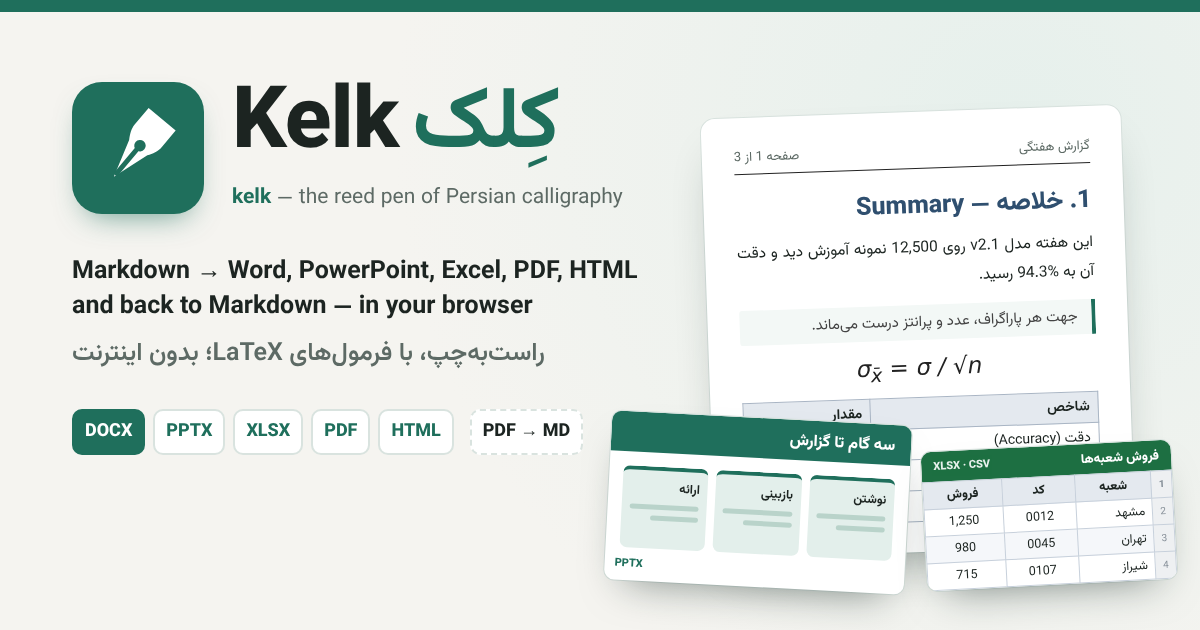
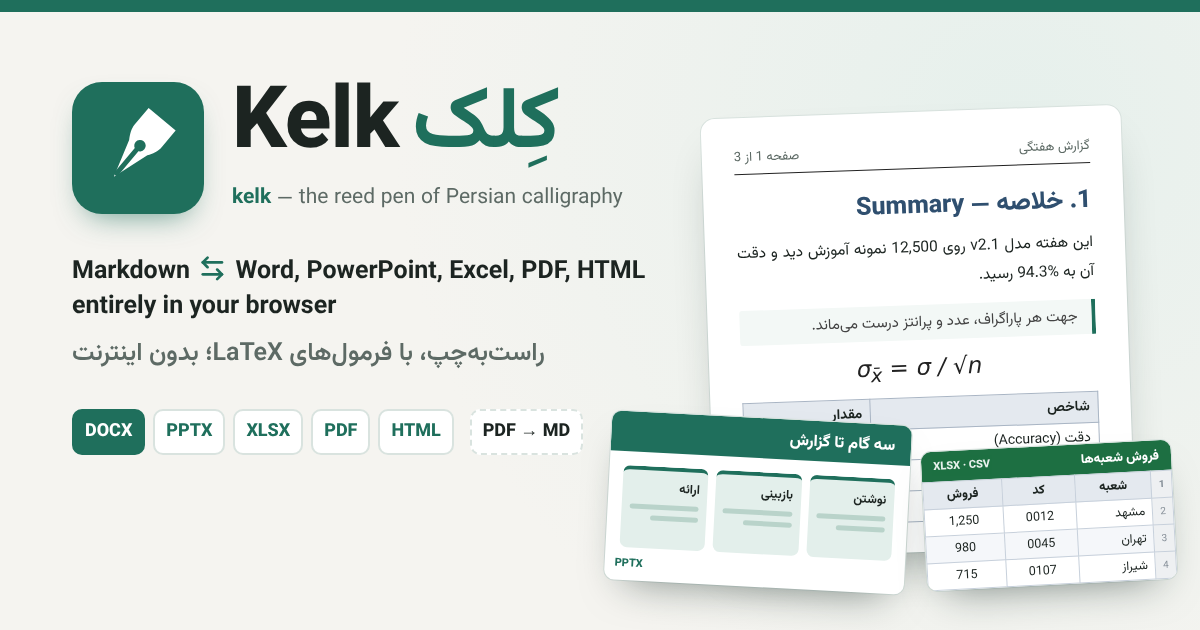
og-image: the tagline's two-way arrow (Lucide arrow-left-right), as on the page
Markdown <-> Word, PowerPoint, Excel, PDF, HTML with the same icon the page's tagline draws
(index.html .tag-arrows), in place of «and back to Markdown»; the PNG made again (1200 x 630).

Claude-Session: https://claude.ai/code/session_019n9RAQHjdbFQ6AkfTnHmJX

Changed region(s): [[0.0617, 0.3921, 0.555, 0.5127]]

diff --git a/tools/og-image.html b/tools/og-image.html
@@ -42,6 +42,8 @@
   .meaning { margin-top: 12px; font-size: 21px; color: var(--muted); }
   .meaning b { color: var(--accent); font-weight: 700; }
   .tag { margin-top: 40px; font-size: 25px; font-weight: 700; line-height: 1.4; white-space: nowrap; }
+  .tag .arrows { width: 1.15em; height: 1.15em; vertical-align: -0.2em; fill: none; stroke: var(--accent); stroke-width: 2.25;
+                 stroke-linecap: round; stroke-linejoin: round; margin: 0 2px; }
   .tag-fa { margin-top: 10px; font-size: 25px; font-weight: 600; color: var(--muted); direction: rtl; text-align: left; }
   .chips { margin-top: 36px; display: flex; gap: 8px; align-items: center; }
   .chip { padding: 7px 11px; border-radius: 10px; font-size: 18px; white-space: nowrap; font-weight: 800; color: var(--accent);
@@ -103,7 +105,8 @@
         <div class="meaning"><b>kelk</b> — the reed pen of Persian calligraphy</div>
       </div>
     </div>
-    <div class="tag">Markdown → Word, PowerPoint, Excel, PDF, HTML<br>and back to Markdown — in your browser</div>
+    <!-- the two-way conversion as the page's tagline draws it: Lucide arrow-left-right (index.html .tag-arrows) -->
+    <div class="tag">Markdown <svg class="arrows" viewBox="0 0 24 24" aria-hidden="true"><path d="M8 3 4 7l4 4"/><path d="M4 7h16"/><path d="m16 21 4-4-4-4"/><path d="M20 17H4"/></svg> Word, PowerPoint, Excel, PDF, HTML<br>entirely in your browser</div>
     <div class="tag-fa">راستبهچپ، با فرمولهای LaTeX؛ بدون اینترنت</div>
     <div class="chips"><span class="chip on">DOCX</span><span class="chip">PPTX</span><span class="chip">XLSX</span><span class="chip">PDF</span><span class="chip">HTML</span><span class="chip back">PDF → MD</span></div>
   </div>

diff --git a/CHANGELOG.md b/CHANGELOG.md
@@ -43,8 +43,8 @@ All notable changes to Kelk. Dates are those of the release tags.
 - **Wide tables in the preview** are handled like fenced code: when a table's columns cannot fit the pane without
   breaking words, its cells keep their lines (breaking only at a real line break) and the table scrolls sideways in
   its own block, a finger too. Narrower tables still fit the pane. The Excel view's sheets do the same.
-- **The link preview** (og-image.png, from tools/og-image.html) shows a sheet beside the page and the slide, and XLSX
-  among the outputs; the page's title and description name Excel and CSV.
+- **The link preview** (og-image.png, from tools/og-image.html) shows a sheet beside the page and the slide, XLSX
+  among the outputs, and the tagline's two-way arrow (Lucide arrow-left-right); the page's title and description name Excel and CSV.
 - **The README** (fa, en, ar) and lib/README describe Excel and CSV, with a screenshot of the Excel view in each language.
 - **About Kelk and samples**: a new section, 3.2 «Excel and CSV», with the three flows as its parts (Markdown to
   Excel, CSV to Excel, Excel to CSV), and XLSX, CSV, csv and xlsx in the outputs and import tables, in all three
